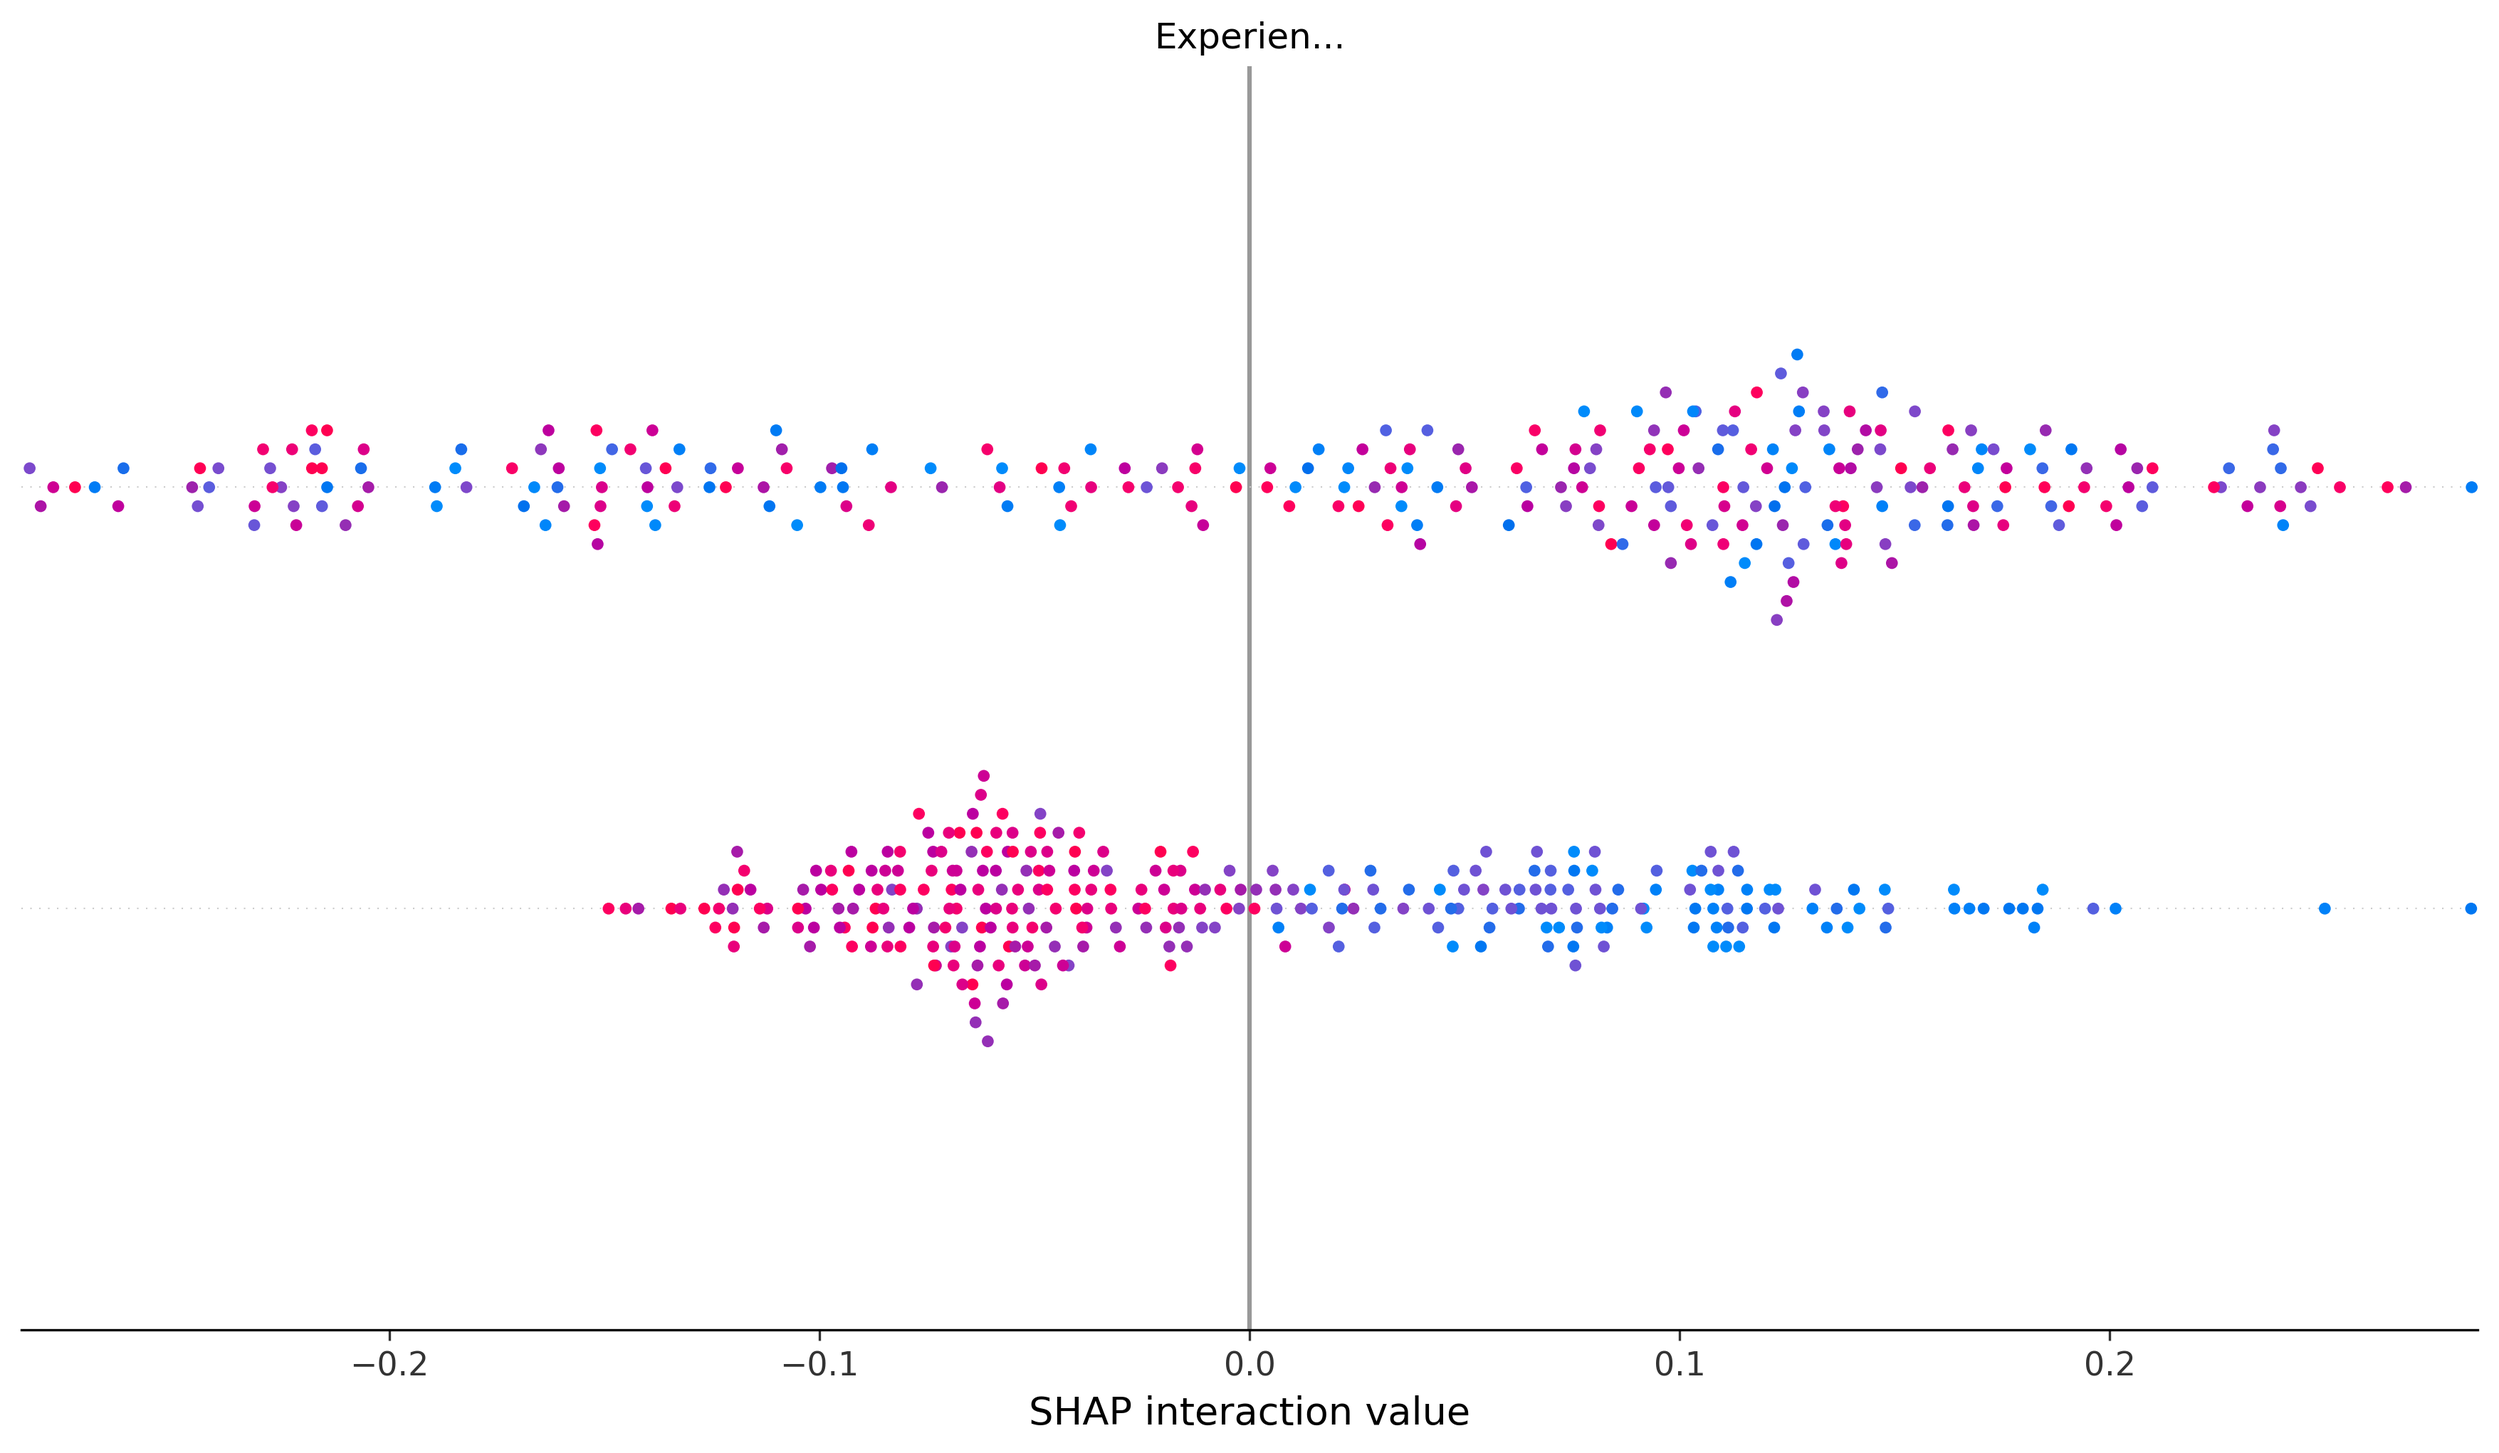
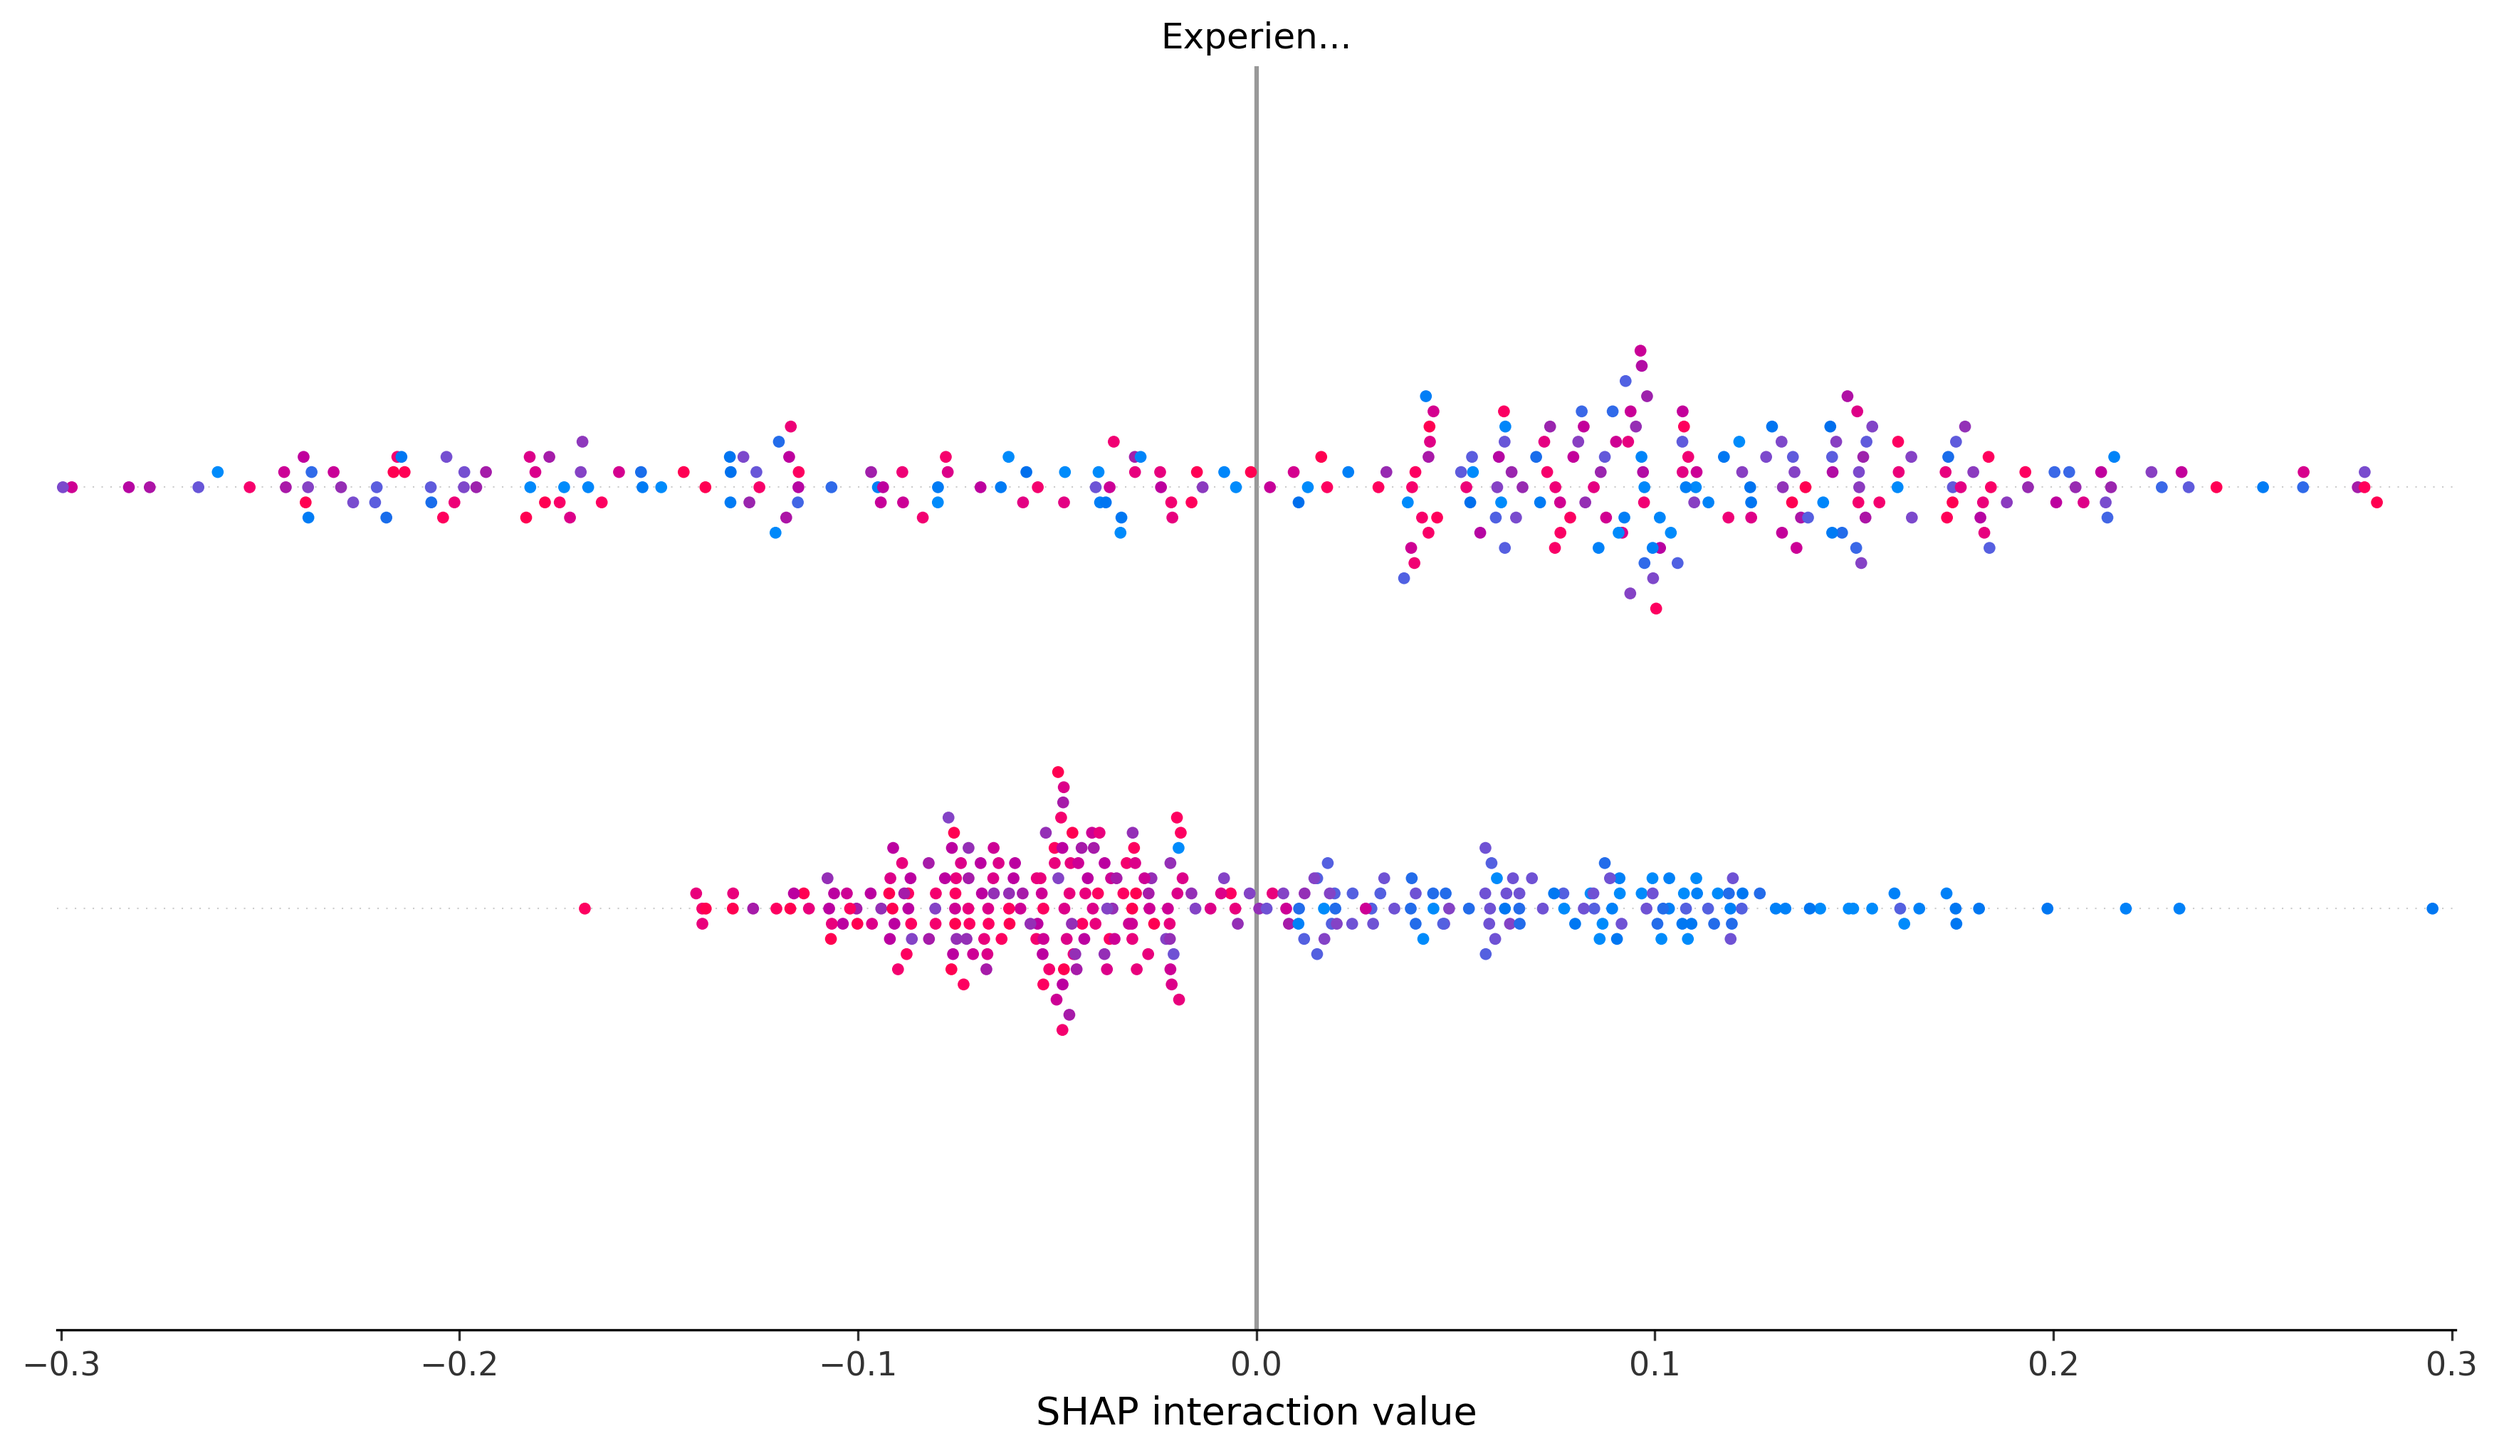
in SHAP_revised_by_zetian_0418.ipynb, I added new columns to our training model, changed our model from randomForest to LightGBM, and reflect the result using shap, and organized our notebook folder.

diff --git a/noteboooks/mid-term-visualization/visualization.py b/noteboooks/mid-term-visualization/visualization.py
@@ -2,7 +2,7 @@
 from collections import Counter
 from matplotlib import pyplot as plt
 import pandas as pd
-from cleaning import clean_text
+from noteboooks.data_cleaning.cleaning import clean_text
 
 # Cleaning recruitment_data.csv
 df = pd.read_csv("datasets/processed_data/cleaned_updated_resume_dataset.csv")
